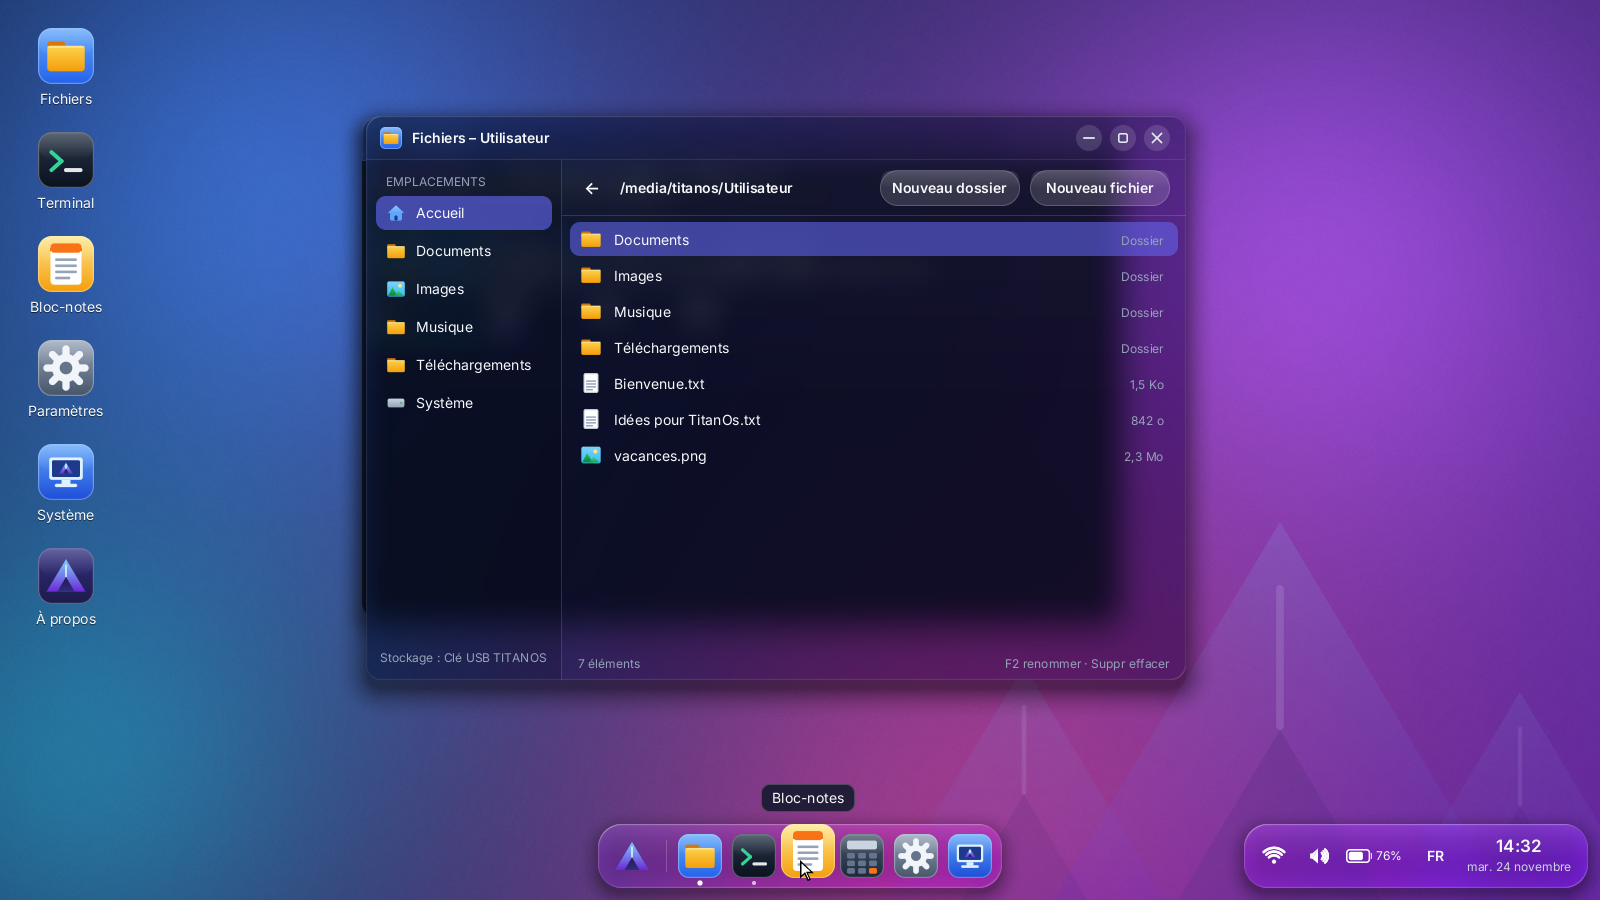
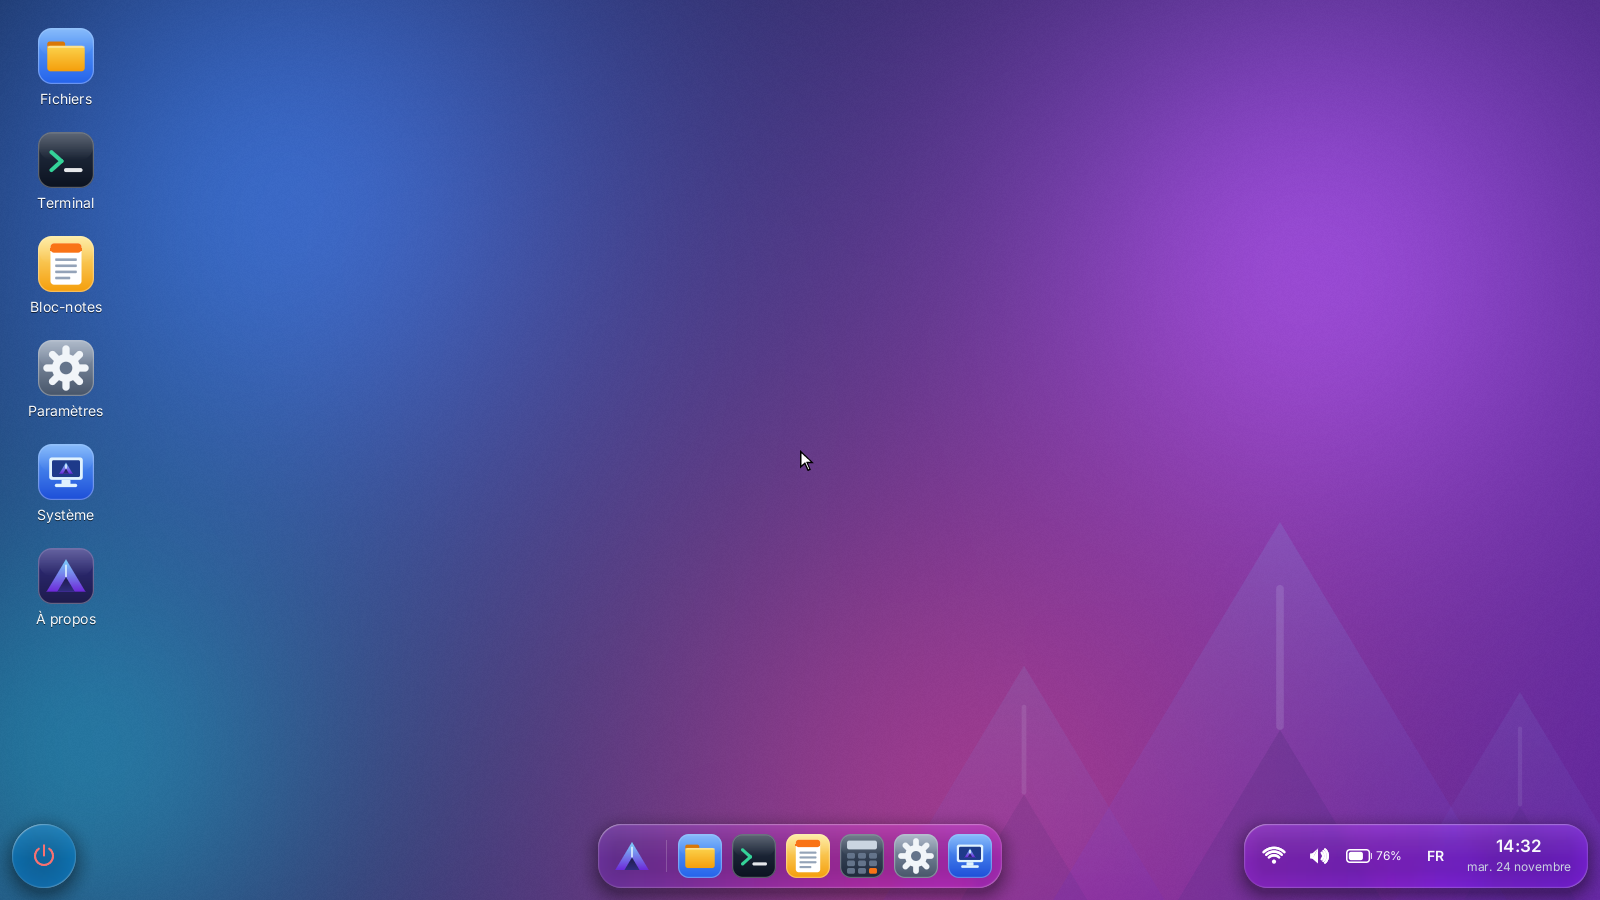
TitanOs bêta 13 : bouton d'arrêt, bon disque au démarrage
- mount_key : avec titanos.disk=, pas de repli sur une autre copie avant
  ~8 s (la clé USB n'était pas encore énumérée au premier essai).
- Bouton d'arrêt en verre en bas à gauche du bureau.

diff --git a/src/core/wm.c b/src/core/wm.c
@@ -52,7 +52,7 @@ static void draw_shadow(canvas_t *dst, shadow_t *s, rect_t r, float radius, floa
 }
 
 typedef struct { rect_t r; bool ok, shown, leaving; canvas_t cache; int level; uint64_t t0; shadow_t sh; } glass_el_t;
-static glass_el_t g_dock, g_tray, g_menu, g_cal, g_pop, g_toast, g_osd, g_avatar, g_hint;
+static glass_el_t g_power, g_dock, g_tray, g_menu, g_cal, g_pop, g_toast, g_osd, g_avatar, g_hint;
 
 /* transitions plein écran : l'ancienne image (snap) s'efface par-dessus la nouvelle */
 enum { TR_NONE, TR_FADE, TR_UNLOCK };
@@ -202,6 +202,9 @@ static rect_t dock_item_rect(int i) {      /* -1 : bouton TitanOs */
 /* zone de notification : réseau, volume, batterie, clavier, horloge */
 enum { TP_NET, TP_VOL, TP_BAT, TP_KBD, TP_CLOCK, TP_COUNT };
 static rect_t tparts[TP_COUNT];
+/* bouton d'arrêt, en bas à gauche */
+static rect_t power_rect(void) { return R(12, scr_h - DOCK_H - 12, DOCK_H, DOCK_H); }
+
 static rect_t tray_rect(void) {
     static const int widths[TP_COUNT] = { 40, 40, 70, 40, 118 };
     int w = 16;
@@ -787,6 +790,15 @@ static void draw_tooltip(void) {
     text_center(T, &font_body, b, t, C_TEXT);
 }
 
+static void draw_power(void) {
+    rect_t r = power_rect();
+    if (!rect_hits(rect_grow(r, 30), T->clip)) return;
+    draw_glass_ex(&g_power, r, r.w / 2.0f, 0, 24, 0x50000000);
+    bool hov = rect_has(r, mx, my);
+    if (hov) gfx_circle(T, r.x + r.w / 2.0f, r.y + r.h / 2.0f, r.w / 2.0f - 6, 0x30FFFFFF);
+    draw_icon(T, ICON_POWER, r.x + (r.w - 28) / 2, r.y + (r.h - 28) / 2, 28);
+}
+
 static void draw_tray(void) {
     rect_t t = tray_rect();
     if (!rect_hits(rect_grow(t, 20), T->clip)) return;
@@ -1049,13 +1061,15 @@ static void present_rect(rect_t P);
 static void collect_glass(glass_el_t **list, int *n) {
     *n = 0;
     if (mode != MODE_DESK) return;
-    g_dock.level = 100; g_tray.level = 100;
+    g_dock.level = 100; g_tray.level = 100; g_power.level = 100;
+    g_power.r = power_rect();
     g_menu.level = 101; g_cal.level = 101;
     g_pop.level = 102; g_toast.level = 103; g_osd.level = 104;
     g_dock.r = dock_rect();
     g_tray.r = tray_rect();
     list[(*n)++] = &g_dock;
     list[(*n)++] = &g_tray;
+    list[(*n)++] = &g_power;
     glass_el_t *opt[] = { &g_menu, &g_cal, &g_pop, &g_toast, &g_osd };
     rect_t rr[] = { menu_rect(), cal_rect(), pop_rect(), toast_rect(), osd_rect() };
     for (int i = 0; i < countof(opt); i++)
@@ -1108,6 +1122,7 @@ static void compose(void) {
         }
         with_layer(rect_grow(dock_rect(), 40), 1, 0, draw_dock_body);
         draw_tray();
+        draw_power();
         float a;
         if ((a = el_alpha(&g_cal)) > 0) with_layer(rect_grow(cal_rect(), 44), a, (int)((1 - a) * 14), draw_calendar);
         if ((a = el_alpha(&g_menu)) > 0) with_layer(rect_grow(menu_rect(), 50), a, (int)((1 - a) * 22), draw_menu);
@@ -1242,6 +1257,9 @@ static bool near_resize(window_t *w, int x, int y) {
 }
 
 static void update_hover(void) {
+    static bool power_hov;
+    bool ph = mode == MODE_DESK && rect_has(power_rect(), mx, my);
+    if (ph != power_hov) { power_hov = ph; damage(rect_grow(power_rect(), 30), 100); }
     window_t *hw = NULL;
     int hb = HV_NONE;
     window_t *top = (mode == MODE_DESK && !menu_open && !pop_open) ? window_at(mx, my) : NULL;
@@ -1385,6 +1403,7 @@ static void mouse_button(const event_t *e) {
         }
         return;
     }
+    if (rect_has(power_rect(), mx, my)) { sound_play(SFX_CLICK); wm_power(0); return; }
     if (rect_has(tray_rect(), mx, my)) {
         if (tray_hover == TP_CLOCK) toggle_cal();
         else if (tray_hover == TP_KBD) { sound_play(SFX_CLICK); wm_kbd_layout_toggle(); }

diff --git a/src/linux/main.c b/src/linux/main.c
@@ -139,11 +139,15 @@ static void block_cb(const char *name, int type, void *ctx) {
     strlcpy(key_dev, name, sizeof key_dev);
 }
 
+static int mount_tries;
 static bool mount_key(void) {
+    mount_tries++;
     key_dev[0] = other_dev[0] = 0;
     for_each_dir("/sys/class/block", block_cb, NULL);
     /* démarrage UEFI (pas de signature transmise) ou signature introuvable : la copie trouvée */
-    if (!key_dev[0] && other_dev[0]) strlcpy(key_dev, other_dev, sizeof key_dev);
+    /* la clé USB peut mettre quelques secondes à apparaître : on ne se rabat sur une autre copie
+     * de TitanOs (le disque interne) qu'après l'avoir attendue */
+    if (!key_dev[0] && other_dev[0] && (!boot_sig()[0] || mount_tries > 32)) strlcpy(key_dev, other_dev, sizeof key_dev);
     if (!key_dev[0]) return false;
     module_load("nls_cp437");
     module_load("nls_utf8");
@@ -360,7 +364,7 @@ static void prepare_home(bool on_key, const char *storage) {
     if (first) {
         char p[256];
         snprintf(p, sizeof p, "%s/Bienvenue.txt", home);
-        const char *t = "Bienvenue dans TitanOs (bêta 12) !\n\n"
+        const char *t = "Bienvenue dans TitanOs (bêta 13) !\n\n"
                         "TitanOs tourne sur le noyau Linux : Linux fournit les pilotes (écran, clavier,\n"
                         "USB, Wi-Fi, son...), et tout le reste est écrit pour TitanOs.\n\n"
                         "Vos fichiers sont gardés sur la clé USB, dans le dossier Utilisateur.\n"

diff --git a/src/sim/sim.c b/src/sim/sim.c
@@ -58,7 +58,7 @@ int plat_listdir(const char *path, dirent_t **out) {
     return n;
 }
 int plat_readfile(const char *path, char **data, size_t *len) {
-    const char *t = "Bienvenue dans TitanOs (bêta 12) !\n\nCe Bloc-notes enregistre vos textes sur la clé USB.\n"
+    const char *t = "Bienvenue dans TitanOs (bêta 13) !\n\nCe Bloc-notes enregistre vos textes sur la clé USB.\n"
                     "Le système tourne sur le noyau Linux, mais tout ce que vous voyez est fait maison.\n";
     if (str_ends(path, ".cfg")) return -1;
     *len = strlen(t);
@@ -81,7 +81,7 @@ int plat_pty_read(int id, char *buf, int n) {
     if (pty_sent[id & 7]) return 0;
     pty_sent[id & 7] = true;
     const char *s =
-        "\x1b[1;35mTitanOs bêta 12\x1b[0m - noyau Linux 6.18.65 - BusyBox 1.37\r\n"
+        "\x1b[1;35mTitanOs bêta 13\x1b[0m - noyau Linux 6.18.65 - BusyBox 1.37\r\n"
         "Tapez \x1b[1maide\x1b[0m pour la liste des commandes.\r\n\r\n"
         "\x1b[1;32mtitan\x1b[0m@\x1b[36mtitanos\x1b[0m:\x1b[1;34m~\x1b[0m$ ls\r\n"
         "\x1b[1;34mDocuments\x1b[0m  \x1b[1;34mImages\x1b[0m  \x1b[1;34mMusique\x1b[0m  Bienvenue.txt  vacances.png\r\n"

diff --git a/tools/buildos.py b/tools/buildos.py
@@ -344,7 +344,7 @@ def build(repo, B):
 
     print("[image disque]")
     import mkimage
-    readme = ("TitanOs beta 12 - systeme d'exploitation sur base Linux\r\n\r\n"
+    readme = ("TitanOs beta 13 - systeme d'exploitation sur base Linux\r\n\r\n"
               "TITANOS\\VMLINUZ     noyau Linux\r\n"
               "TITANOS\\INITRD.IMG  systeme TitanOs (bureau, pilotes, BusyBox)\r\n"
               "EFI\\BOOT\\BOOTX64.EFI chargeur UEFI (Secure Boot desactive)\r\n"
@@ -360,6 +360,6 @@ def build(repo, B):
     write_update(out, info, s2, vmlinuz, initrd, bootimg.build(ttc))
     print(f"  noyau au secteur {info['kernel_lba']}, initramfs au secteur {info['initrd_lba']}, "
           f"chargé à {info['initrd_addr'] >> 20} Mo ; {info['free_mb']} Mo libres pour vos fichiers")
-    print(f"\nTitanOs bêta 12 est prêt :")
+    print(f"\nTitanOs bêta 13 est prêt :")
     print(f"  build/titanos.img   image pour clé USB ({DISK_MB} Mo, démarre en BIOS et en UEFI)")
     print(f"  build/titanos.vhd   disque virtuel (VirtualBox, Hyper-V génération 1)")

diff --git a/src/core/base.h b/src/core/base.h
@@ -25,8 +25,8 @@ typedef __builtin_va_list va_list;
 #define false 0
 #define NULL  ((void *)0)
 
-#define TITANOS_VERSION "Bêta 12"
-#define TITANOS_BUILD   12             /* numéro de version, comparé aux mises à jour publiées */
+#define TITANOS_VERSION "Bêta 13"
+#define TITANOS_BUILD   13             /* numéro de version, comparé aux mises à jour publiées */
 #define countof(a) ((int)(sizeof(a) / sizeof((a)[0])))
 #define MIN(a, b) ((a) < (b) ? (a) : (b))
 #define MAX(a, b) ((a) > (b) ? (a) : (b))

diff --git a/README.md b/README.md
@@ -1,4 +1,4 @@
-# TitanOs — bêta 12
+# TitanOs — bêta 13
 
 Système d'exploitation **léger** sur base Linux, avec un bureau **liquid glass** écrit en C,
 sans bibliothèque, et pensé pour le **Sony VAIO série F** (Core i7, GeForce GT 330M).
@@ -71,7 +71,7 @@ Raccourcis : touche Windows (menu et recherche), Alt+Tab, Alt+F4, Ctrl+Alt+T (Te
 
 ## Installer sur une clé USB
 
-1. Télécharger `titanos-beta12.img.zip` dans les [versions publiées](../../releases), puis le décompresser.
+1. Télécharger `titanos-beta13.img.zip` dans les [versions publiées](../../releases), puis le décompresser.
 2. Écrire `titanos.img` sur une clé USB avec **Rufus, en mode DD**. Cela efface la clé.
    Prenez une clé d'au moins 2 Go : la place libre accueillera les applications.
 3. **Sony VAIO (BIOS)** : touche F2, onglet Boot, activer **External Device Boot** et mettre la clé
@@ -172,6 +172,11 @@ tools/                téléchargement Alpine, polices, initramfs, image disque,
 - **Sur la clé**, dès qu'elle est trouvée, TitanOs écrit `journal-titanos.txt` toutes les 5 secondes
   pendant 4 minutes : messages du noyau, pilotes, périphériques, et l'endroit où chaque processus attend.
   Branchez la clé sur Windows et envoyez ce fichier.
+
+## Nouveautés de la bêta 13
+
+- Bouton d'arrêt en bas à gauche du bureau (avec confirmation).
+- Démarrage depuis une clé alors que TitanOs est aussi installé sur le disque : c'est bien la clé qui est utilisée. TitanOs ne se rabattait plus sur le disque interne avant que la clé USB ait eu le temps d'apparaître.
 
 ## Nouveautés de la bêta 12
 
